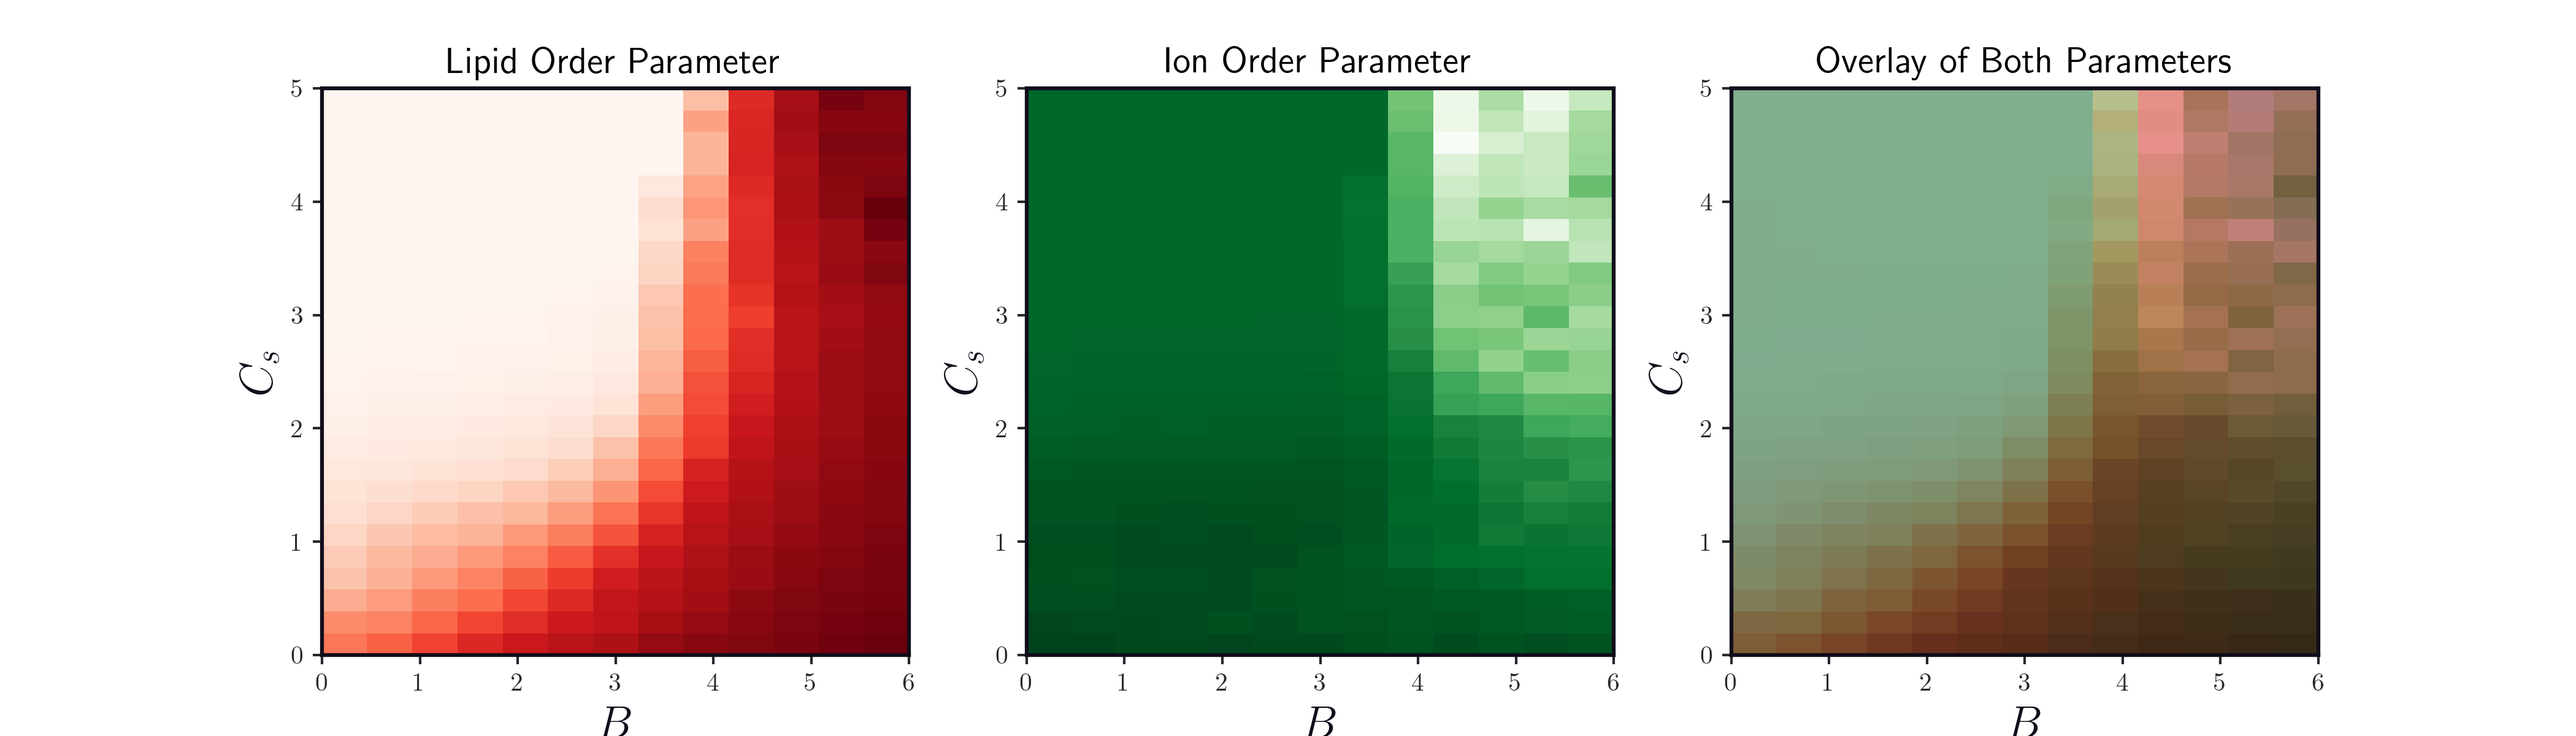
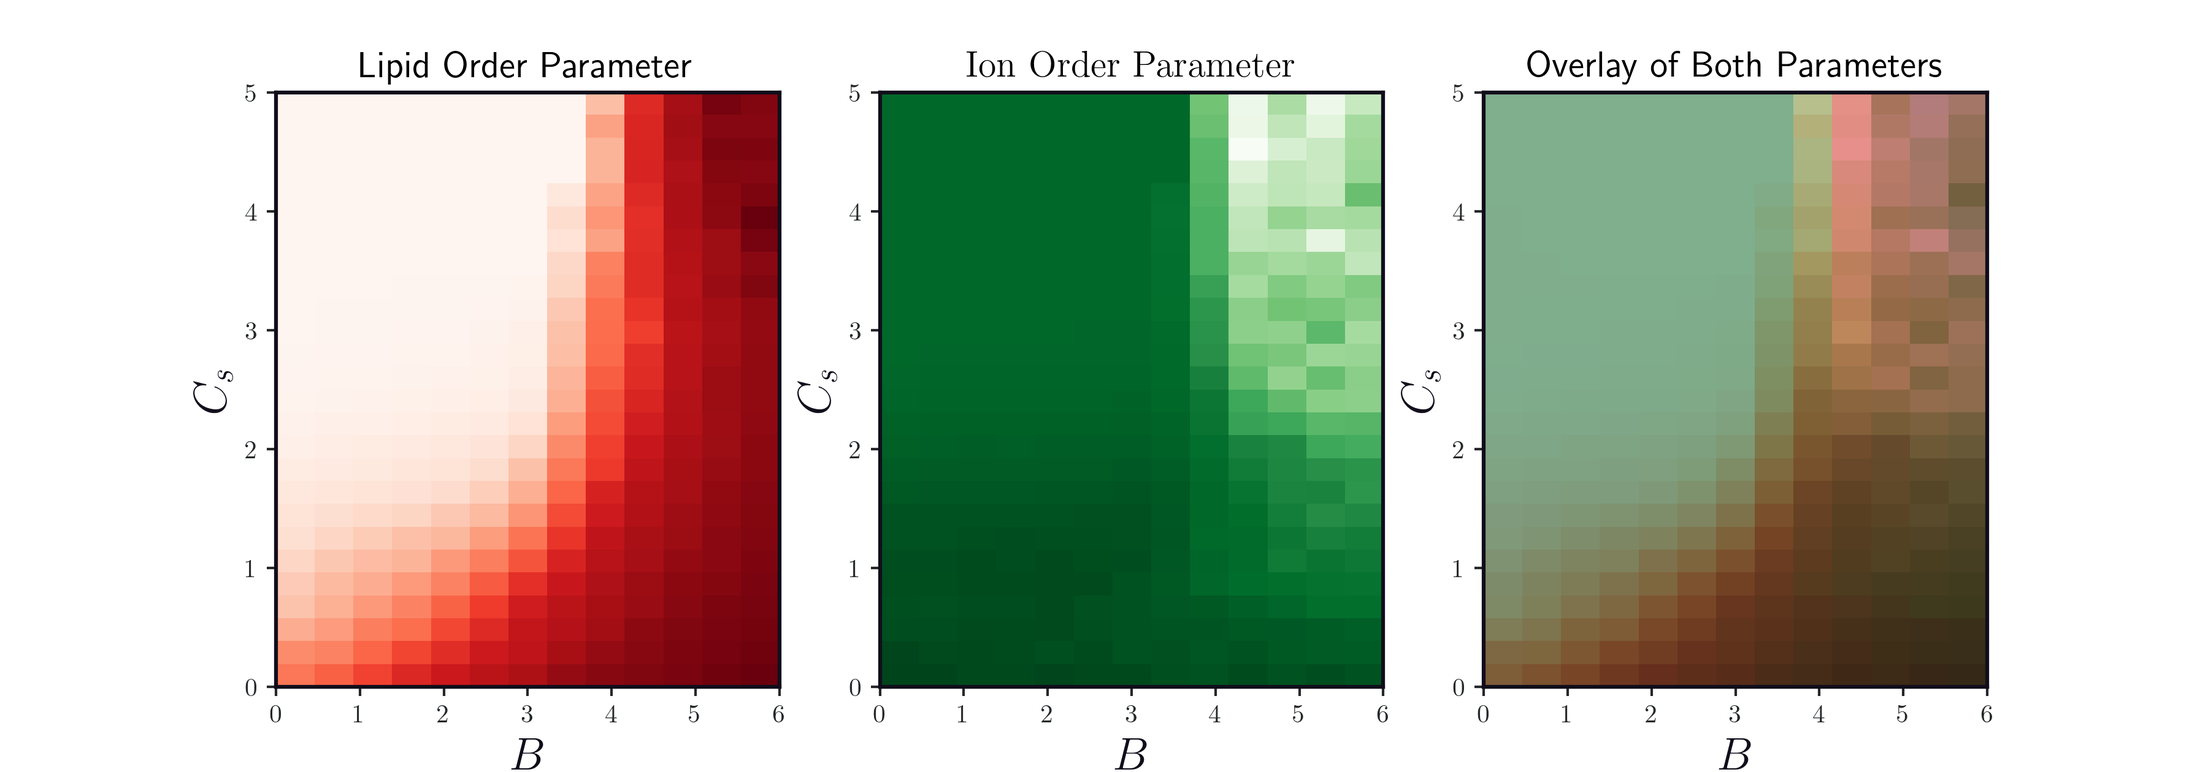
updating plots

diff --git a/figures_2024/scripts/plot_max_dens.py b/figures_2024/scripts/plot_max_dens.py
@@ -13,7 +13,7 @@ plt.style.use("stylefile.mplstyle")
 
 nrows=2
 ncols=2
-fig, axes = plt.subplots(nrows=nrows, ncols=ncols, figsize=(9,7), dpi=170)
+fig, axes = plt.subplots(nrows=nrows, ncols=ncols, figsize=(8,20/3), dpi=1000)
 
 
 im = []
@@ -68,9 +68,9 @@ colors[2] = yellow_color
 colors[3] = green_color
 
 colors[0] = 'beige'
-colors[1] = 'cornflowerblue'
-colors[2] = 'firebrick'
-colors[3] = 'forestgreen'
+colors[1] = 'skyblue'
+colors[2] = 'salmon'
+colors[3] = 'lightseagreen'
 
 #Start of actual plot
 for i in range(ncols):
@@ -251,7 +251,7 @@ plt.title("Phase Diagram")
 # cbar.set_ticklabels(['Lamellar', 'Coacervate-Core', 'Lipid-Core', 'Homogeneous'], rotation=90, ha='center', va='center')
 from matplotlib.colors import ListedColormap
 
-colors = ["salmon", "skyblue", "wheat", "grey"]
+colors = ["salmon", "skyblue", "wheat", "gainsboro"]
 cmap = ListedColormap(colors)
 
 # Create meshgrid for scatter plot
@@ -282,7 +282,7 @@ plt.savefig("phase_diagram.png", dpi=300)
 
 #Start the second plot
 # Plot for the L_order value
-plt.figure(figsize=(14, 4))
+plt.figure(figsize=(12, 4.2),dpi=500)
 plt.subplot(131)
 plt.imshow(
     processed_L_order_grid,
@@ -319,7 +319,7 @@ plt.imshow(
 # plt.colorbar(label='Processed C_order Value')
 plt.xlabel("$B$")
 plt.ylabel("$C_s$")
-plt.title("Ion Order Parameter")
+plt.title(r"$\textrm{Ion Order Parameter}$")
 
 # Overlay plot for the L_order and C_order values
 plt.subplot(133)
@@ -356,5 +356,5 @@ plt.title("Overlay of Both Parameters")
 fig.tight_layout()
 plt.savefig("order_parameters.png", dpi=300)
 
-plt.show()
+#plt.show()
 
